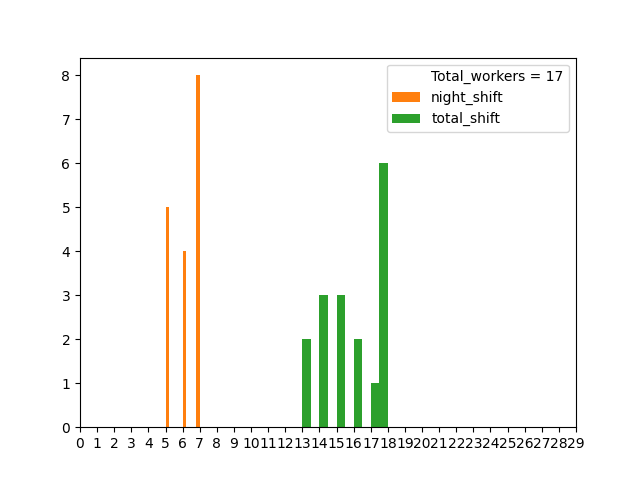
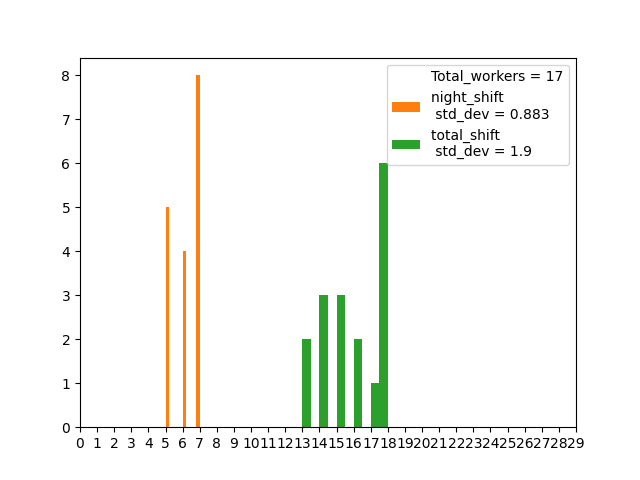
hope it works

Changed region(s): [[0.5938, 0.1875, 0.875, 0.3438]]

diff --git a/Balance-Rating.py b/Balance-Rating.py
@@ -34,24 +34,10 @@ def Balance(balance) :
         value.append(balance[i][0])
         night_shift.append(balance[i][1])
       return value,night_shift
-def calculate_standard_deviation(data):
-    n = len(data)
     
-    mean = sum(data) / n
-    
-    # Step 2: Calculate the squared differences between data points and the mean
-    squared_diff = [(x - mean) ** 2 for x in data]
-    
-    # Step 3: Calculate the mean of the squared differences
-    mean_squared_diff = sum(squared_diff) / n
-    
-    # Step 4: Take the square root to get the standard deviation
-    standard_deviation = mean_squared_diff ** 0.5
-    
-    return standard_deviation
 if __name__ == "__main__":
-    part = "b"
-    method = "IP"
+    part = "a"
+    method = "GRAPH"
     datapack = 2
     Load_Result(datapack,part = part,method = method)
     balance = np.loadtxt(f"Balance_result_{datapack}_part_{part}_{method}")
@@ -62,8 +48,8 @@ if __name__ == "__main__":
     print(stats.stdev(night_shift))
     print(stats.stdev(value))
     plt.plot([], [], ' ', label=f'Total_workers = {len(value)}')
-    plt.hist(night_shift,label = "night_shift")
-    plt.hist(value,label = "total_shift")
+    plt.hist(night_shift,label = f"night_shift \n std_dev = {round(stats.stdev(night_shift),3)}")
+    plt.hist(value,label = f"total_shift \n std_dev = {round(stats.stdev(value),3)}")
     plt.xticks([i for i in range(30)])
     plt.subplot
     plt.legend()
